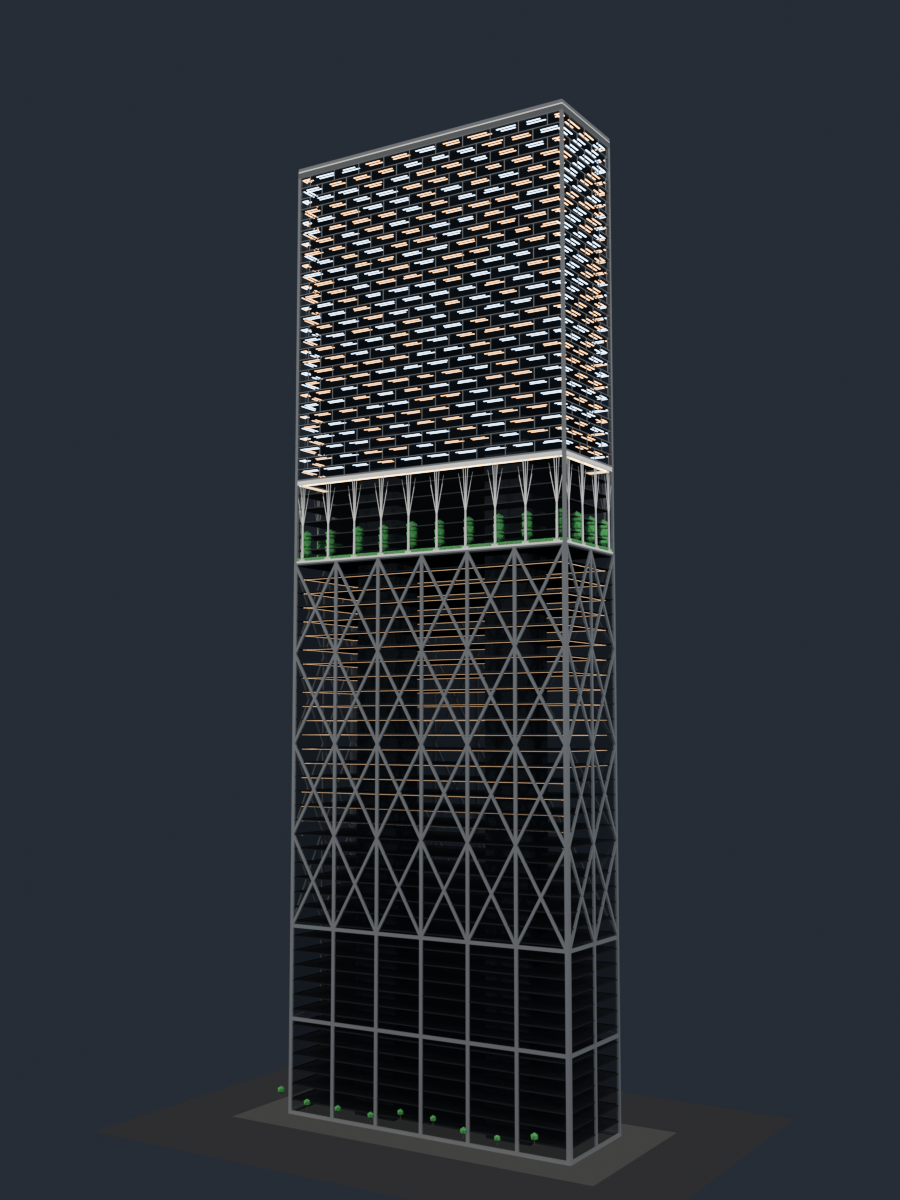
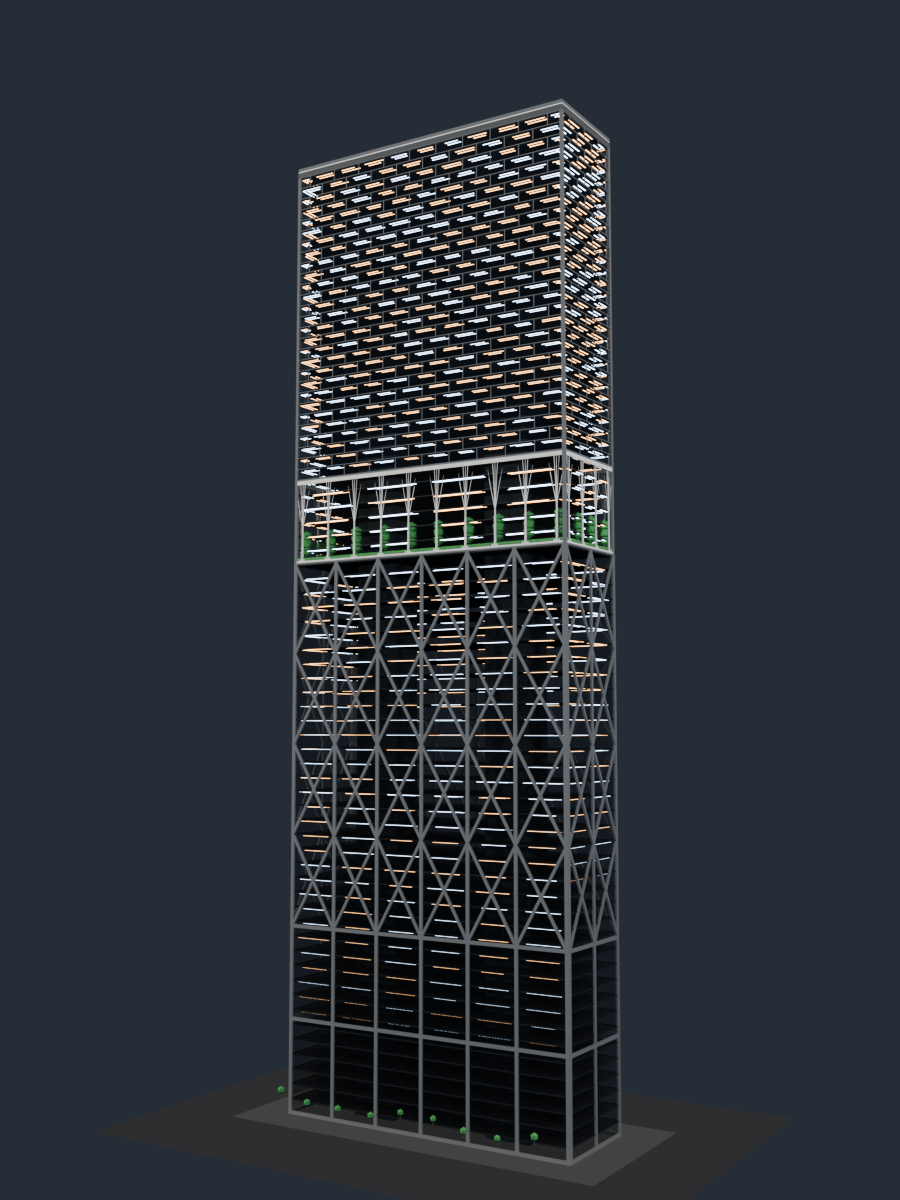
feat: unify every Stack 3 floor light to the apartment strips
The lower block and the planted level used their own continuous ceiling bars.
All floors now use the apartment language instead: one long ceiling strip per
room, cool or warm per room, two depths - and the old band-top glow is gone.

diff --git a/build_stack3.py b/build_stack3.py
@@ -425,7 +425,7 @@ def build_cornices(mats, cols):
 # ---------------------------------------------------------------------------
 # Band 1: one big X lattice over the whole lower block
 # ---------------------------------------------------------------------------
-def build_lattice(mats, cols):
+def build_lattice(mats, cols, rng):
     """The lower 190 m is one facade: a bold external frame three bays wide by
     three tiers tall, with an X brace in every cell and glass behind it.
 
@@ -499,17 +499,25 @@ def build_lattice(mats, cols):
     rails.finish()
 
     # Warm hall below, cool floors above; one strip per 5 m storey.
-    warm = Part("Lattice_Lights_Warm", mats["light_glow"], col)
-    cool = Part("Lattice_Lights_Cool", mats["light_glow"], col)
+    # The same room lights as the apartments: one long strip per room, cool or
+    # warm, on every floor - the house language for all interior lighting.
+    cool = Part("Lattice_Lights_Cool", mats["light_day"], col)
+    warm = Part("Lattice_Lights_Warm", mats["light_warm"], col)
     for face in FACES:
         half = face_half(face)
+        hw = half - inset
+        n = bays if face in LONG_FACES else 2
+        du = 2 * hw / n
         for z in floor_levels():
             if 1.0 < z <= z1:
-                part = warm if z < 86.0 else cool
-                storey_lights(part, face, half, z - 0.52, inset=2.0,
-                              depths=(2.9,), width=0.30)
-    warm.finish()
+                for i in range(n):
+                    u0 = -hw + i * du
+                    part = cool if rng.random() < 0.5 else warm
+                    for depth in (1.2, 2.8):
+                        ceiling_strip(part, face, u0 + 0.8, u0 + du - 0.8,
+                                      z - 0.52, depth, rng)
     cool.finish()
+    warm.finish()
 
 
 # ---------------------------------------------------------------------------
@@ -602,11 +610,22 @@ def build_garden_band(name, mats, cols, tree_pitch, rng):
         rail.face_box(face, -half, half, z0 + 1.15, z0 + 1.25, -0.02, 0.14)
     rail.finish()
 
-    glow = Part(f"{name}_Ceiling_Light", mats["glow"], col)
+    cool = Part(f"{name}_Light_Cool", mats["light_day"], col)
+    warm = Part(f"{name}_Light_Warm", mats["light_warm"], col)
     for face in FACES:
         half = face_half(face)
-        glow.face_box(face, -half, half, z1 - 1.6, z1 - 1.2, -1.4, 0.30)
-    glow.finish()
+        n = 4
+        du = 2 * half / n
+        for z in floor_levels():
+            if z0 + 1.0 < z <= z1:
+                for i in range(n):
+                    u0 = -half + i * du
+                    part = cool if rng.random() < 0.5 else warm
+                    for depth in (1.4, 3.0):
+                        ceiling_strip(part, face, u0 + 0.8, u0 + du - 0.8,
+                                      z - 0.52, depth, rng)
+    cool.finish()
+    warm.finish()
 
 
 # ---------------------------------------------------------------------------
@@ -747,18 +766,6 @@ def build_roof(mats, cols):
 
 # ---------------------------------------------------------------------------
 # Interior glow behind the glazed bands
-# ---------------------------------------------------------------------------
-def build_interior_glow(mats, cols):
-    p = Part("Interior_Ceiling_Glow", mats["glow"], cols["Lighting"])
-    for name, z0, z1 in BANDS:
-        if name in ("Plaza",):
-            for face in FACES:
-                half = face_half(face)
-                p.face_box(face, -half + 1.0, half - 1.0,
-                           z1 - 1.9, z1 - 1.5, -1.6, 0.35)
-    p.finish()
-
-
 # ---------------------------------------------------------------------------
 # Cameras, lighting, render
 # ---------------------------------------------------------------------------
@@ -994,11 +1001,10 @@ def build(args):
     build_site(mats, cols, rng)
     build_floors(mats, cols)
     build_cornices(mats, cols)
-    build_lattice(mats, cols)
+    build_lattice(mats, cols, rng)
     build_garden_band("Plaza", mats, cols, 11.8, rng)
     build_apartments(mats, cols, rng)
     build_roof(mats, cols)
-    build_interior_glow(mats, cols)
 
     cams = setup_scene(args)
 

diff --git a/README.md b/README.md
@@ -248,9 +248,11 @@ module and run 28 floors.
   tiers carry an X brace in every cell. The frame carries vertical posts only: no added horizontal
   band, the floor line is the dark slab edge itself; every floor plate in the
   model is near-black. Behind it is one dark glass skin with no visible pane
-  joints at all - no mullions between the panes - and a soft warm ceiling strip
-  on every floor.
-- **Plaza, 190-220 m.** A planted arcade of branching tree columns.
+  joints at all - no mullions between the panes. Every floor, here and in the
+  planted level, is lit the same way as the apartments: one long cool-or-warm
+  ceiling strip per room.
+- **Plaza, 190-220 m.** A planted arcade of branching tree columns and planting,
+  open through - no interior wall - with the same room strips on its floors.
 - **Apartments, 220-334 m.** A semi-transparent glazed skin drawn as a staggered
   block grid: every bay is one 4 m storey of glass, laid in a half-bond running
   course, and the external frame around the bays is the window pattern itself -
